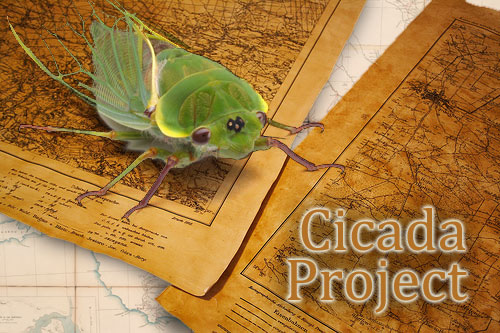
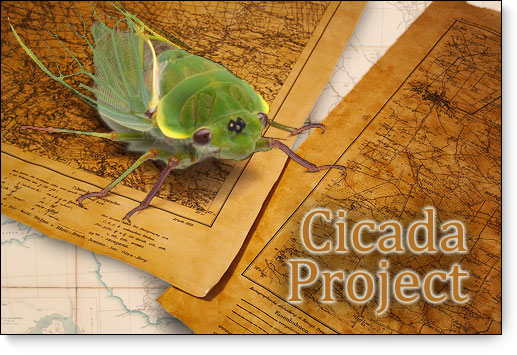
add drop shadow to map image and tweak position
git-svn-id: http://ala-volunteer.googlecode.com/svn/trunk@125 0b7a649d-3ec8-f03e-b044-56c4ea68b8d3

diff --git a/volunteer-portal/web-app/css/public.css b/volunteer-portal/web-app/css/public.css
@@ -10,7 +10,7 @@ body .ac_results li {
     padding:  5px 5px 14px 16px;
 }
 
-/* these 2 styles override the site style.css to use the explorer-themed banner */
+/* these styles override the site style.css to use the explorer-themed banner */
 body {
     background:transparent url(../images/explorer-banner.jpg) center 0 repeat-x ! important;
 }
@@ -20,16 +20,17 @@ body {
 }
 
 #wrapper_search {
-   display: none;
+    display: none;
 }
 
 html {
-   background-color:#f7f4e9 ! important;
-   background-image: -moz-linear-gradient(top, #f5f2e3, #f7f4e9) ! important; /* FF3.6 */
-   background-image: -webkit-gradient(linear,left top,left bottom,color-stop(0, #f5f2e3),color-stop(1, #f7f4e9)) ! important; /* Saf4+, Chrome */
-   filter:  progid:DXImageTransform.Microsoft.gradient(startColorStr='#f5f2e3', EndColorStr='#f7f4e9') ! important; /* IE6,IE7 */
-   -ms-filter: "progid:DXImageTransform.Microsoft.gradient(startColorStr='#f5f2e3', EndColorStr='#f7f4e9')" ! important; /* IE8 */
+    background-color:#f7f4e9 ! important;
+    background-image: -moz-linear-gradient(top, #f5f2e3, #f7f4e9) ! important; /* FF3.6 */
+    background-image: -webkit-gradient(linear,left top,left bottom,color-stop(0, #f5f2e3),color-stop(1, #f7f4e9)) ! important; /* Saf4+, Chrome */
+    filter:  progid:DXImageTransform.Microsoft.gradient(startColorStr='#f5f2e3', EndColorStr='#f7f4e9') ! important; /* IE6,IE7 */
+    -ms-filter: "progid:DXImageTransform.Microsoft.gradient(startColorStr='#f5f2e3', EndColorStr='#f7f4e9')" ! important; /* IE8 */
 }
+
 /* end */
 
 div.nav { margin-bottom: 10px; }
@@ -398,16 +399,18 @@ div.errors { border:1px solid red; padding: 10px; margin-bottom: 10px; }
 
 .front-image img {
     margin-left:15px;
-    border: #666 solid 1px;
 }
 
 .front-buttons {
-    margin-left:100px;
+    margin-left:85px;
     text-align: center;
 }
 
-.front-buttons img:first-child { padding-bottom: 15px; padding-top: 10px;}
-
 .front-buttons a {
     text-decoration: none ! important;
+}
+
+.front-buttons img:first-child {
+    padding-top: 10px;
+    padding-bottom: 12px;
 }
